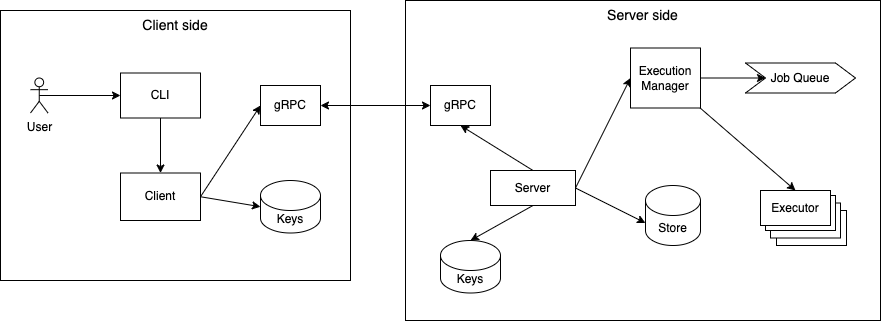
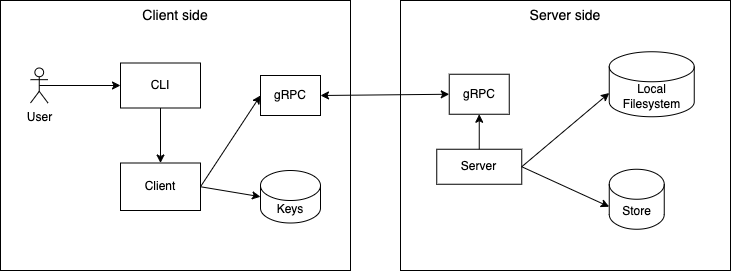
Uptdate the design to remove the ExecutorManager and add a read-write strategy

diff --git a/docs/design.md b/docs/design.md
@@ -5,12 +5,13 @@ It schedules a received command and returns a job id to the requester, who can l
 
 ## Terminology
 
+* User: a human or script calling the CLI to run a command on a remote Linux server
 * Command: any executable program that is available on the machine running the service
 * CLI : an executable on the client side that parses the request from the user and calls client to process the command
 * Client: the process on the client side that configures and uses gRPC to invoke operations on the server side
 * Server: the server side of the client-server communication, where the server runs
 * Storage: a temporary data structure storing information about existing users, roles and jobs
-* Job: an object with information about a scheduled command including requester, command and output channel
+* Job: an object to refer to a command that was issued on a remote Linux machine with additional information like Id, status and output
 
 ## Overview
 
@@ -18,16 +19,12 @@ The architecture for the service is represented on the diagram below:
 
 ![architecture](../images/rlcp_architecture.png)
 
-When a user calls the CLI to run a command on the remote linux server the following sequence of operations happen:
+When a user calls the CLI to run a command on the remote Linux server the following sequence of operations happen:
 
 1. the CLI parses and validates the command
-1. the CLI calls the Client, which reads the TLS keys from local storage, formats the input arguments into the appropriate object and calls the operation on the server using gRPC
+1. the CLI calls the Client, which reads the TLS keys from local storage and adds the config to the transport credentials. It then formats the input arguments into the appropriate object and calls the operation on the server using gRPC.
 1. on the server side, the server opens a net listener and accepts requests from the client side using gRPC. When configuring gRPC, the server uses the keys from local storage.
-1. the Server starts the Execution Manager, which creates a Job Queue to store the commands to be executed.
-1. the Execution Manager also creates the Executors necessary to execute the jobs, controlling a pool of executors to guarantee that the server is not overwhelmed.
-1. when receiving a new command, the server validates on local storage if the appropriate permissions
-1. for a `run` command, the Server calls the Execution Manager to enqueue a command for execution.
-1. for the other commands, the Server returns the status or deletes the Job from the Storage.
+1. the server will then extract the user identification from the certificate CN authorize the request. Please look at the [Authorization](#authorization) section below for details.
 
 We expand on the details below.
 
@@ -36,7 +33,10 @@ We expand on the details below.
 When the Server receives a request, first it validates if the user is in the Storage.
 It will extract the email from the CommonName in the certificate and will run `Storage.GetUserId(email)` to see if the user exists.
 
-If the user exists, the authorization is based on the operation. For new commands, there is no validation necessary. For query or delete a Job, the server will extract the identity from the authorization info in the request's context and verify in `Storage.Authorized(userId, jobId)` if the user requesting the operation is the same that created the Job.
+The Storage will contain a map of users to roles.
+The users key will be an email and the roles eiter `general` or `readonly`. 
+
+If the user exists, each gRPC method will perforn a specific authorization. `ExecCommand()` and `StopJob()` require the user to have a `general` role, while for `GetStatus()` and `GetOutput`, either `general` or `readonly` is valid.
 
 ## CLI
 
@@ -44,13 +44,13 @@ The CLI is a simple Go main package that parses the input from the user and vali
 
 These are the operations accepted:
 
-* `run <command>` schedules a command to be executed and returns an id for the scheduled job.
+* `run <command>` calls the server to execute the provided command. Retures a Job Id identifying the job or an error message if the user doesn't have the permissions.
 
-* `status <job id>` searches for the scheduled job id. Returns its status or an appropriate error message if not found or the user doesn't have the permissions to see it.
+* `status <job id>` queries the status of an Job on the server. The available statuses are: `running`, `completed`, `errored`, `stopped`.
 
-* `output <job id>` gets the output stream for the specified job or an error message if the job is invalid.
+* `output <job id>` gets the output for a Job. If the command is still running, the output will be streamed until the Job completes or is stopped.
 
-* `del <job id>` deletes a scheduled job.
+* `stop <job id>` stops a running job. If the job is already stopped, or the user doesn't have the necessary permission, an error message will be informed.
 
 Command helper message explaining how it works:
 
@@ -65,8 +65,8 @@ OPERATIONS
         shows this prompt
 
     run <command>
-        schedules the <command> parameter for execution. <command> should be a single word or if multiple words, encapsulated by double quotes.
-        this command returns a job id to be used to either query or delete the job later.
+        runs the informed <command> on the server. <command> should be a single word or if multiple words, encapsulated by double quotes.
+        this command returns a job id to be used to either query the status, get the output or stop the job later.
 
         Examples:
          rlcp run pwd
@@ -74,22 +74,22 @@ OPERATIONS
          rlcp run "tail -f server.log"
     
     status <job id>
-        gets the status for the job or an error message if the id is invalid.
+        gets the status for the job or an error message if the id is invalid or the user doesn't have the appropriate permissions.
 
         Example:
         rlcp status bf7a1eae-8d25-4de5-995b-8c4d3ef8b848
     
     output <job id>
-        prints the output for the job or an error message if the id is invalid.
+        prints the output for the job or an error message if the id is invalid or the user doesn't have the appropriate permissions.
 
         Example:
         rlcp output 8060271e-b776-4444-9e75-bd2e3db3cc7d
 
-    del <job id>
-        deletes a scheduled job
+    stop <job id>
+        stops the job identified by job id. Returns an error message if the id is invalid or the user doesn't have the appropriate permissions.
 
         Example:
-        rlcp del af1f8215-bee7-455d-874a-55f0e3fb20b5
+        rlcp stop af1f8215-bee7-455d-874a-55f0e3fb20b5
 ```
 
 ## Client
@@ -100,9 +100,9 @@ First the CLI command parses and validates the command line arguments.
 
 If the CLI command is valid, the client reads the local client certificate and key from `./x509/client_cert.pem` and `./x509/client_key.pem` respectively. It will error if the files are not present.
 
-Additionally the client reads the server's CA certificate, which may not be the same as the client's from `./x509/ca_cert.pem`.
+Additionally the client reads the server's CA certificate from `./x509/server_ca_cert.pem`.
 
-For this exercize we will use a 2048-bit RSA keys for both the server and the client.
+Both the client and the server use a 2048-bit RSA keys for mTLS.
 
 With the command arguments and certificate, the client will invoke the appropriate gRPC methods to communicate with the server.
 
@@ -112,7 +112,7 @@ The server opens a TCP listener on port 50001 and uses that listener to start a 
 
 Before starting the gRPC server, the server reads the following keys from the local filesystem:
 
-`./x509/client_ca_cert.pem`: the client CA certificate. The client CA may be different from the server's.<br />
+`./x509/client_ca_cert.pem`: the client CA certificate.<br />
 `./x509/server_key.pem`: the server's private key.<br />
 `./x509/server_cert.pem`: the server's certificate with its counterpart public key.
 
@@ -121,12 +121,12 @@ The TLS configuration expects the TLS min and max versions being 1.3:
 ```
 // TLS config on the server
 config := tls.Config{
-  ClientAuth:            tls.RequireAndVerifyClientCert,
-  Certificates:          []tls.Certificate{cert},
-  ClientCAs:             ca,
-  VerifyPeerCertificate: authorizeClient,
-  MinVersion:            tls.VersionTLS13,
-  MaxVersion:            tls.VersionTLS13,
+    ClientAuth:            tls.RequireAndVerifyClientCert,
+    Certificates:          []tls.Certificate{cert},
+    ClientCAs:             ca,
+    VerifyPeerCertificate: authorizeClient,
+    MinVersion:            tls.VersionTLS13,
+    MaxVersion:            tls.VersionTLS13,
 }
 ```
 
@@ -144,39 +144,39 @@ syntax = "proto3";
 option go_package = ".;pb";
 
 service RemoteExecutor {
-	// Enqueues a command for execution on the server
-	rpc ExecCommand (CmdRequest) returns (EnqueuedJobDetails) {}
-  // Gets the status for the requested Job Id
-	rpc GetStatus (GetRequest) returns (JobStatus) {}
-  // Gets the output for the requested Job Id
-	rpc GetOutput (GetRequest) returns (stream JobOutput) {}
-  // Deletes a job from the queue. If the command is still running, it is cancelled
-  rpc DeleteJob (DeleteRequest) returns (Deleted) {}
+    // Runs a command on the server and returns the Job details
+    rpc ExecCommand (CmdRequest) returns (JobDetails) {}
+
+    // Gets the status of a Job
+    rpc GetStatus (GetRequest) returns (JobDetails) {}
+
+    // Gets the output for the requested Job Id
+    rpc GetOutput (GetRequest) returns (stream JobOutput) {}
+
+    // Stops a job. 
+    rpc StopJob (StopRequest) returns (StopResponse) {}
 }
   
 // The request message containing the command
 message CmdRequest {
-  string command = 1;
+    string command = 1;
 }
 
 // The response message containing job id
-message EnqueuedJobDetails {
-  string job_id = 1;
+message JobDetails {
+    enum Status {
+        RUNNING = 0;
+        COMPLETED = 1;
+        ERRORED = 2;
+        STOPPED = 3;
+    }
+    string job_id = 1;
+    Status status = 2;
 }
 
 // The request for a Job status
 message GetRequest {
-  string job_id = 1;
-}
-
-// The status for a Get Job
-message JobStatus {
-  enum Status {
-    PENDING = 0;
-    RUNNING = 1;
-    FINISHED = 2;
-  }
-  Status status = 1;
+    string job_id = 1;
 }
 
 // The response for a Get Job, with the combined output from stdout and stderr
@@ -184,15 +184,15 @@ message JobOutput {
     bytes output = 1;
 }
 
-// The request for a Delete operation containing the job id
-message DeleteRequest {
-  string job_id = 1;
+// The request for a Stop operation containing the job id
+message StopRequest {
+    string job_id = 1;
 }
 
-// The result of a Delete operation
-message Deleted {
-  bool deleted = 1;
-  string message = 2;
+// The result of a Stop operation
+message StopResponse {
+    bool stopped = 1;
+    string error_message = 2;
 }
 ```
 
@@ -202,52 +202,68 @@ All of them call an authorizer to validate that the requester has the appropriat
 
 ## Storage
 
+
 Currently all information about users and jobs is stored in memory, but it can be later stored in key value stores, SQL databases or any other data structure implementing the following interface:
 
 ```
 // JobStore defines the methods persist and access job relevant data.
-type JobStore interface {
-	// GetUserId returns the UUID for the user matching the identifier on the request
-	GetUserId(identifier string) (string, bool)
-
-	// Authorized validates if the user requesting an operation on a job is the same that scheduled it
-	Authorized(userId, jobId string) bool
-
-	// Schedules a command for the user
-	ScheduleCommand(userId, command string)
-
-	// Gets the status and output for a Command.
-	// When the command finishes executing and the Out channel is drained, the response is deleted from the storage.
-	GetResponse(userId, jobId string) (*Response, bool)
-
-	// Deletes the job from the storage
-	DeleteJob(userId, jobId string) bool
+type User struct {
+    email string
+    role  string // one of: general or readonly
 }
 
-type Response struct {
-	Status string // pending, running, finished
-	Out    chan []byte
+type Job struct {
+    id string     // in UUID format
+    status string // one of: running, completed, errored or stopped
+}
+
+type JobStore interface {
+	  // GetUserId returns the UUID for the user matching the identifier on the request
+	  GetUser(email string) (User, bool)
+
+  	// Stores the Job details
+	  SaveJob(job *Job) error
+
+    // Get a Job
+    GetJob(jobId string) (*Job, error)
 }
 ```
 
-## Execution Manager
-
-The Execution Manager controls Job Queue and create Go routines to instantiate Executors to run the Jobs.
-
-Its purpose is to allow a client to schedule a job asynchronously, getting a Job Id right away, and get it processed later. It also controls the number of executors running, allowing a configuration between resources utilization latency.
-
 ## Executor
 
-The executor is the Go routine that will actually call the OS to run the command. Some commands like `pwd` may run completely and return the output instantly. Others, like `top` may not complete unless cancelled or errored. For those scenarios we can run multiple executors, to allow for parallel command execution.
+On this context Executor is just a fancy name for a Go routine.
 
-This is the flow of actions for an executor:
+Some commands like `pwd` may run completely and return the output instantly. Others, like `tail -f server.log` may not complete unless cancelled or errored. For that reason the Server will schedule each command on a separate Go routine.
 
-1. takes a Job from the Job Queue (guarded by a mutex)
-1. uses the `os/exec` library to run the command on the OS
-1. creates a buffered channel listening to `stdout` and `stderr` and writes the output to `Job.Out`
-1. if the output fits in the buffered channel and the command completes, the executor will end this cycle and pick up the next Job
-1. if the output doesn't fit `Job.Out`, it will block. When the client queries for the Job response, they will stream what's already in the buffer plus what is being produced.
-1. that will continue indefinitely until the process finishes executing or the user Deletes it.
-1. a few tests/actions are needed here:
-    + when the buffer channel is full, what happens to `strout` if it keeps filling?
-    + we should either add a timeout or some other buffer like disk storage to avoid blocking the worker.
+This is the flow of actions for an executor Go routine:
+
+1. the Executor uses the `os/exec` library to run the command on the OS
+1. listen to the `stdout` and `stderr` pipes and writes the output to files on disk, following the strategy defined below.
+
+## Coordination between the Output Writer and Readers
+
+One naive way to concurrently read and write of the output would be having the Executor writing to the disk and multiple readers in different Go routines reading form it. That would work, but the performance would cripple with multiple readers.
+
+To solve that problem we can implement a strategy with buffers and log files.
+
+For every command being executed we have:
+1. a `[]byte` buffer to store the temporary output from the command
+1. an integer counter, starting at 1 indicating how many log files we have. Let's call it `N`
+1. an OutputProcessor Go routine (we'll expand on it below)
+1. a pool of channels (`chan []byte`) for readers to receive the output. The channels must be buffered to prevent slow readers from impacting the performance
+1. files stored on the filesystem with the format `<uuid_[1..N]>.out`
+
+Instead of writing directly to disk, the Executor Go routine gets a lock on a `[]byte` buffer and append the output to it, until it is full. After it's full it will release the lock and wait for a new buffer to be available.
+
+A separate Go routine (the OutputProcessor mentioned above) waits for the lock to be available. Once acquired, it will:
+1. create a new buffer and pass it to the Executor, which will continue processing and appending to it
+1. write the contents of the old buffer to all the reader channels waiting
+1. create a new file on disk and write the contents to it
+1. increments the `N` counter
+1. gets back to wait for the lock on step 1.
+
+When a reader starts listening for a command output, it will:
+1. craete a read channel and add it to the pool of reader channels
+1. read the `N` counter
+1. read N files from disk, writing the contents to the the gRPC output stream
+1. listen to the read channel, writing every input that comes in to the gRPC output stream
